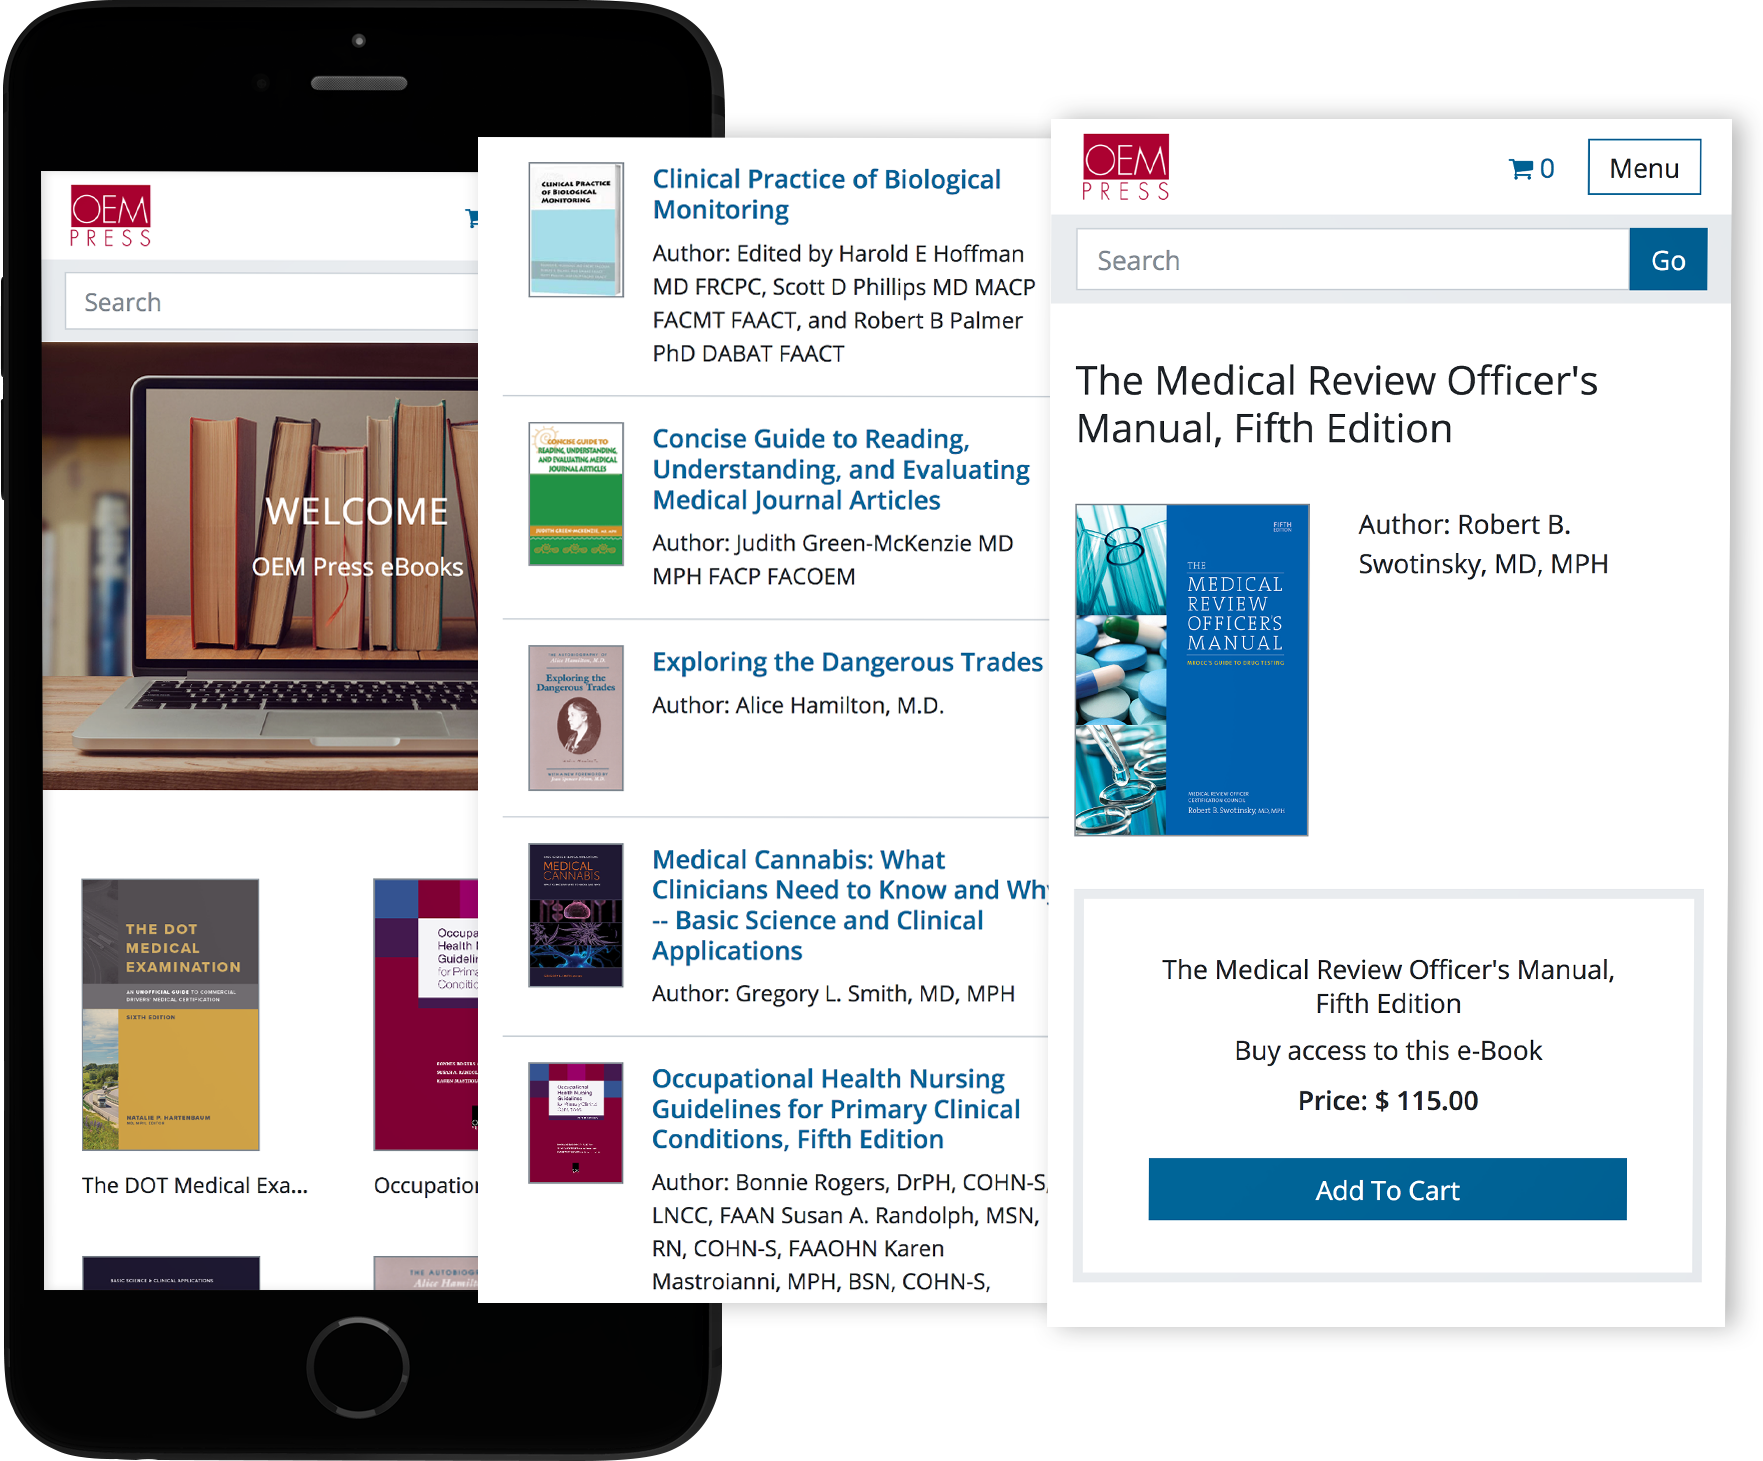
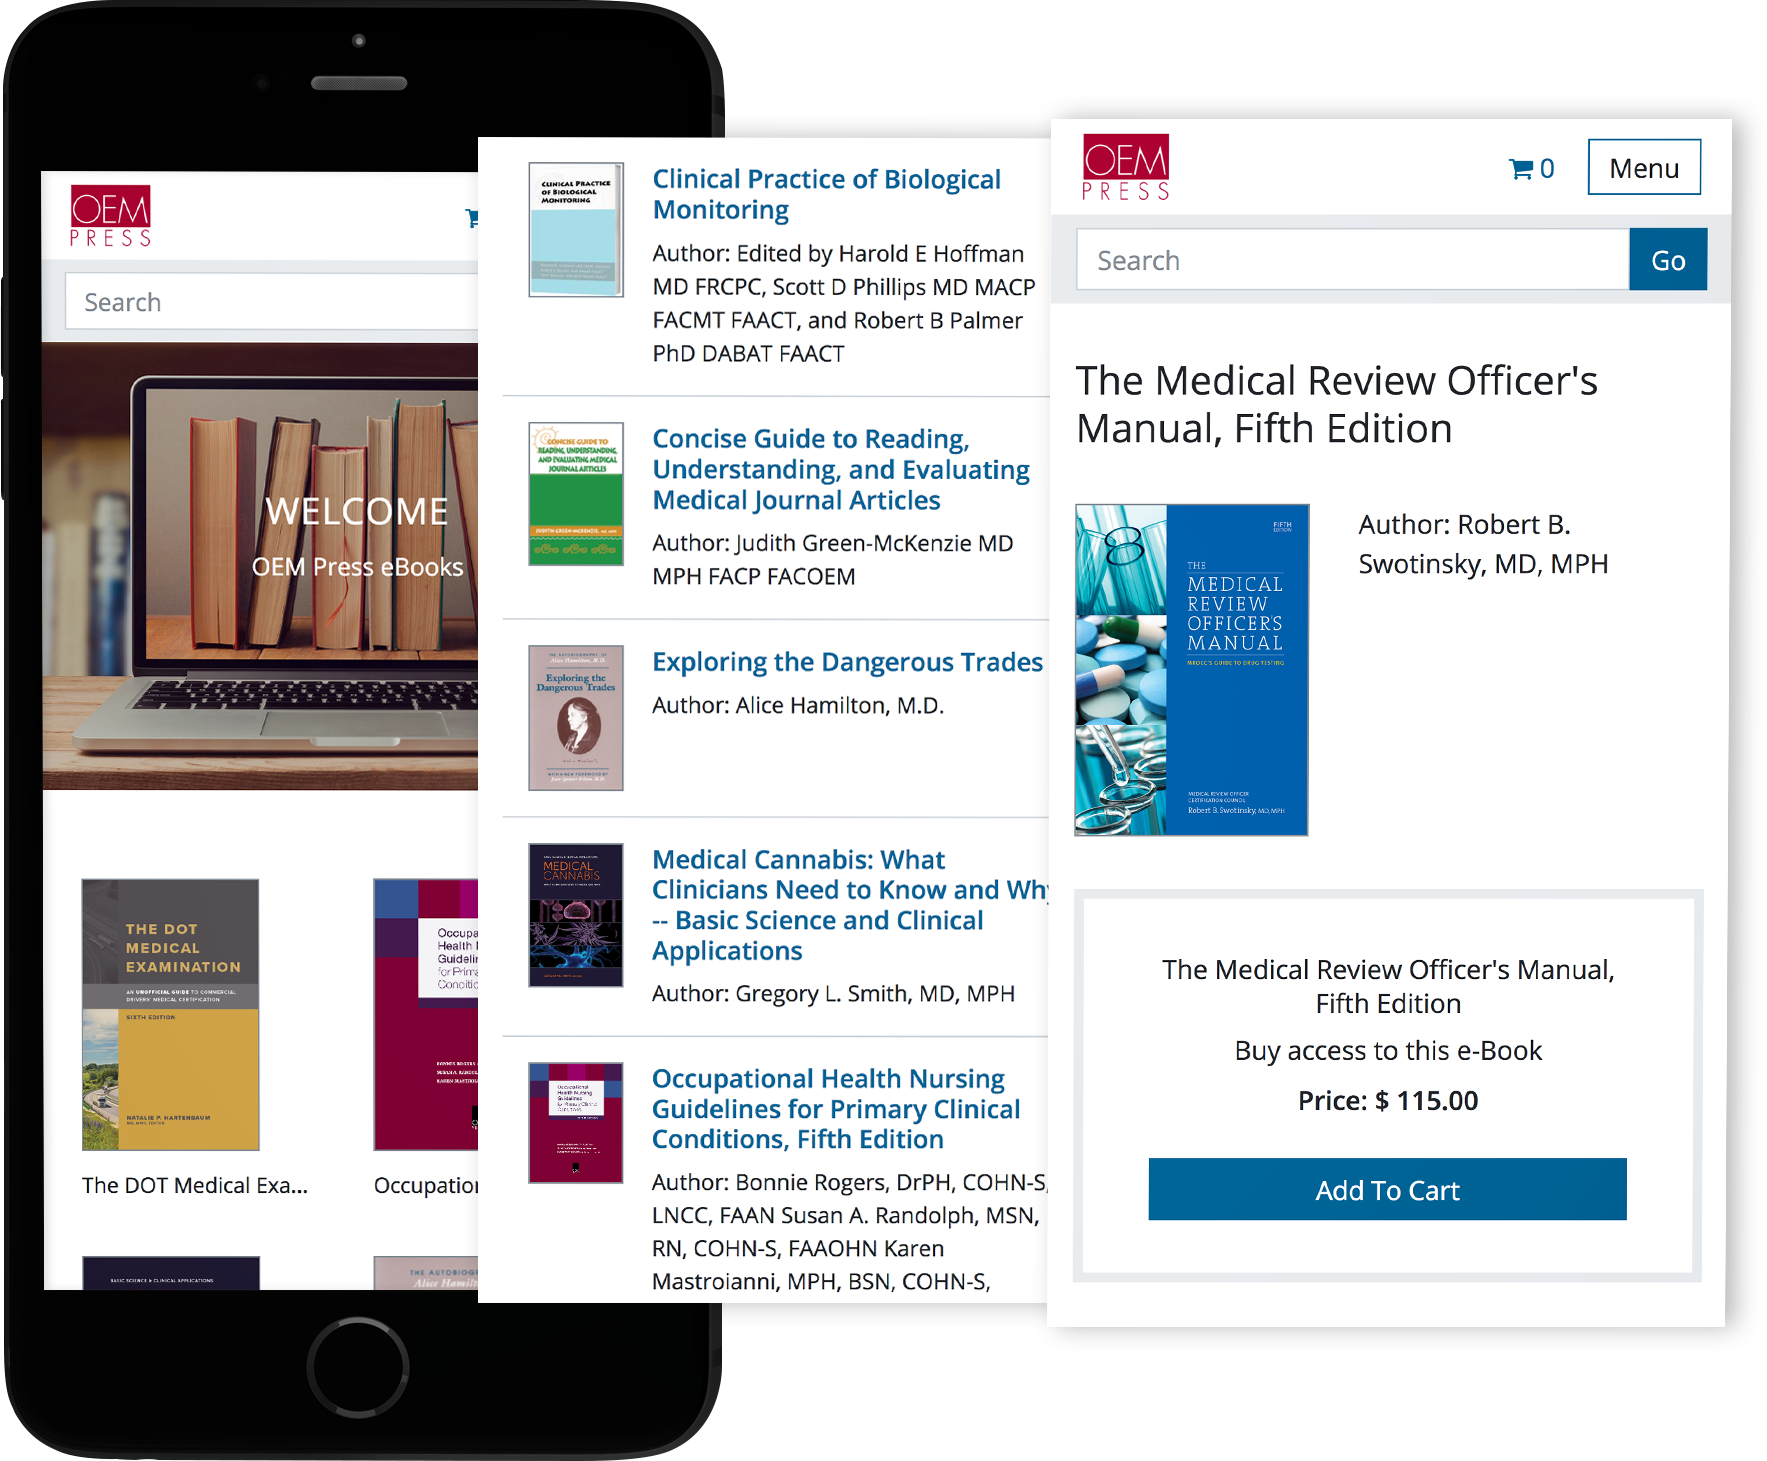
preserve transparency in project images

diff --git a/src/pages/index.js b/src/pages/index.js
@@ -94,7 +94,7 @@ export default IndexPage
 export const query = graphql`
   fragment fluidImage on File {
     childImageSharp {
-      fluid(maxWidth: 1024, toFormat: JPG, quality: 75) {
+      fluid(maxWidth: 1024) {
         ...GatsbyImageSharpFluid
       }
     }
